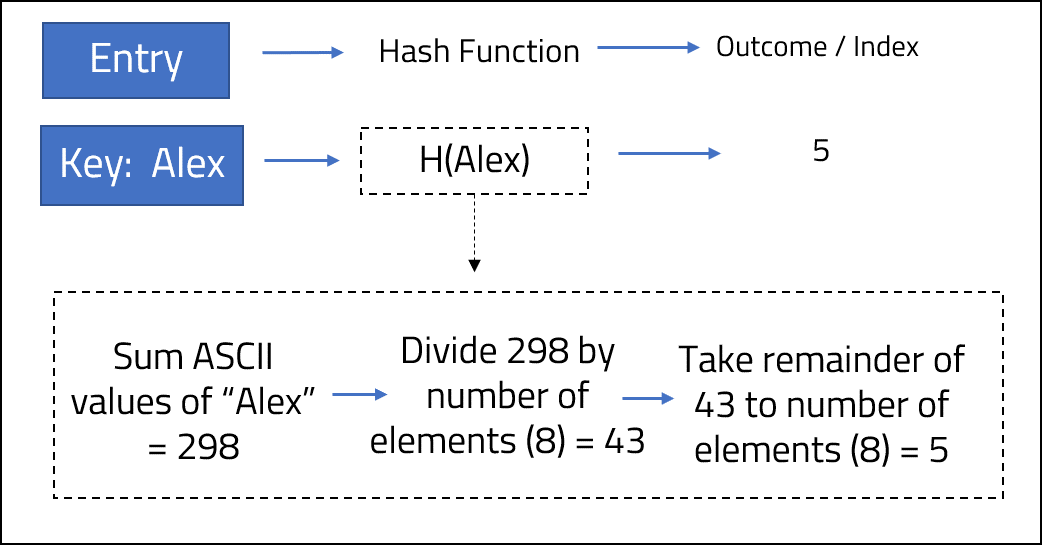
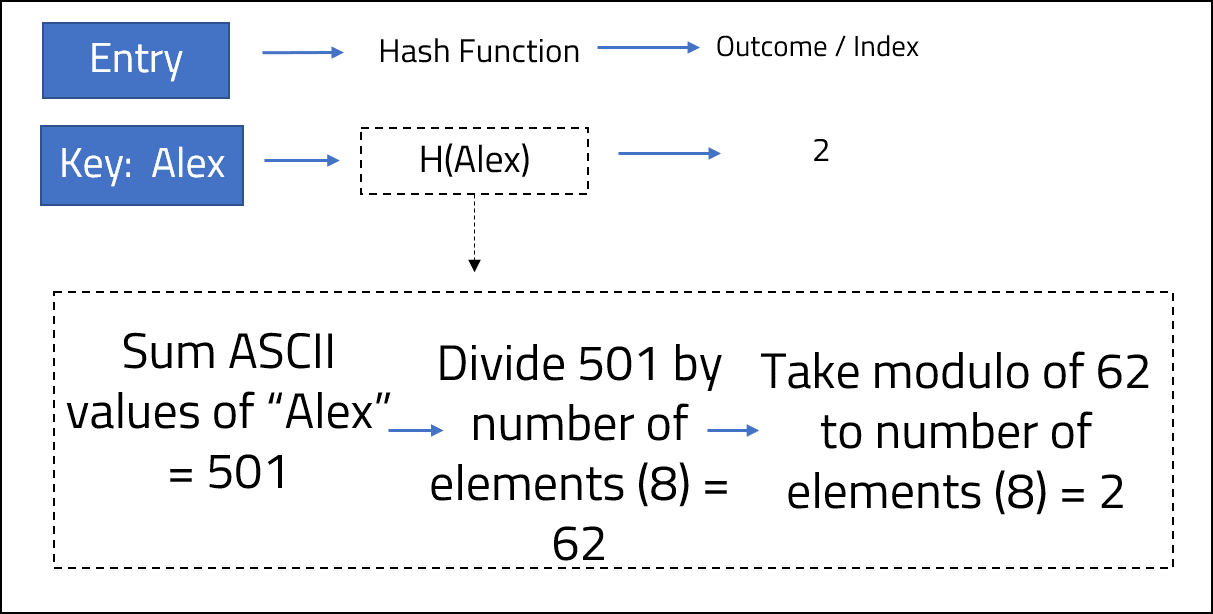
update to post 5

diff --git a/src/blogInProgress/007_ChainingImplementation.md b/src/blogInProgress/007_ChainingImplementation.md
@@ -1,0 +1,113 @@
+---
+title: 'Implementing closed addressing'
+date: 2020-04-27 16:34:00
+author: 'Aneesh Mistry'
+featuredImage: ../images/007_Bariloche.png
+subtitle: 'A practical demonstration how a hash function can be designed to implement chaining / closed addressing'
+time: '8'
+tags:
+- Java
+- Data Structures
+---
+<br>
+<strong>Key Takeaways</strong><br>
+&#8226; The .<br>
+&#8226; The .<br>
+&#8226; The.<br>
+
+<br>
+<h4>Chaining in a HashTable</h4>
+<p>
+Chaining, also known as closed addressing, is a technique used in Java HashTables and HashMaps to efficiently multiple values if their keys map to the same hash value.
+I have written a blog explaining how open and closed addressing works <a target="_blank" href="https://aneesh.co.uk/resolving-hash-collisions">here</a>. In this post, I 
+will walk through the implementation of closed addressing whereby a HashTable will allocate values into a LinkedList within the HashTable for each hash value in the HashTable.
+</p>
+
+<h4>Implementing chaining, step by step</h4>
+<p>
+The HashTable will exist as its own class and will have four key methods:<br>
+&#8226; <strong>put(Key, Value)</strong> to place key-value pairs in the HashTable.
+&#8226; <strong>hashFunction(Key)</strong> to calculate the hash value of the key.
+&#8226; <strong>remove(Key)</strong> to remove key-value pairs from the HashTable.
+&#8226; <strong>get(Key)</strong> to obtain values from the HashTable using the key.
+<br>
+The bucket in each HashTable index will consist of a LinkedList. The LinkedList will be an implementation of the class: EntryLinkedList.<br>
+EntryLinkedList will contain the variables: key, value, nextEntryPosition. nextEntryPosition will be used to resolve hash collisions and use positions further in the list to store values.
+</p>
+<strong>Class: EntryLinkedList</strong>
+<p>
+
+The EntryLinkedList constructor will instantiate the key, value and nextEntryPosition. The nextEntryPosition is only defined during a collision, otherwise it is not needed.
+There are appropriate getters and setters required for obtaining and setting the value and nextEntryPosition, and obtaining the key.<br>
+
+```java{numberLines: true}
+
+public class EntryLinkedList {
+
+    private String key;
+    private int value;
+    private EntryLinkedList nextEntryPosition;
+
+    EntryLinkedList(String key, int value){
+        this.key = key;
+        this.value = value;
+        this.nextEntryPosition = null;
+    }
+
+    public String getKey() {
+        return key;
+    }
+
+    public int getValue() {
+        return value;
+    }
+
+    public void setValue(int value) {
+        this.value = value;
+    }
+
+    public EntryLinkedList getNextEntryPosition() {
+        return nextEntryPosition;
+    }
+
+    public void setNextEntryPosition(EntryLinkedList nextEntryPosition) {
+        this.nextEntryPosition = nextEntryPosition;
+    }
+}
+
+```
+
+</p>
+<br>
+<strong>Class: ChainedHashTable</strong>
+<p>
+The ChainedHashTable will first instantiate an array of the EntryLinkedList which will form the buckets that the values will be stored in:<br>
+
+```java{numberLines: true}
+  private static final int TABLE_SIZE = 64;
+    EntryLinkedList[] entryList;
+    ChainedHashTable(){
+        entryList = new EntryLinkedList[TABLE_SIZE];
+        for(int i = 0; i< TABLE_SIZE; i++){
+            entryList[i] = null;
+        }
+    }
+```
+
+<br>
+The method hashFunction will be used to calculate the hash value of the key:<br>
+
+
+
+</p>
+
+
+<br>
+<h4>Conclusion</h4>
+<p>
+
+
+</p>
+
+<br>
+<small style="float: right;" >Picture: Bariloche, Argentina by <a target="_blank" href="https://unsplash.com/@ggiqueaux">Geronimo Giqueaux</small></a><br>

diff --git a/src/posts/005ResolvingHashConflicts.md b/src/posts/005ResolvingHashConflicts.md
@@ -57,11 +57,11 @@ The example above does not explain how the hash function actually derived the In
 
 <p>
 A collision will occur when the hash function computes two different keys into the same index position of the array.<br>
-If a fourth entry with a key-value pair of: {"George" , 81} was added to the hash table, the index position would equal 7 if we follow the same hash function:<br>
-1. "George" ASCII value = 441<br>
-2. 441 / 8 = 55<br>
-3. 55 % 8 = 7<br>
-The addition of a new key, "George", will create a collision with "Eliza", which is also stored at index 7. Without a collision resolution, {"Eliza" , 97} will be replaced by the key-value pair {"George" , 81}.
+If a fourth entry with a key-value pair of: {"Phillip" , 19} was added to the hash table, the index position would equal 7 if we follow the same hash function:<br>
+1. "Phillip" ASCII value = 722<br>
+2. 722 / 8 = 90<br>
+3. 90 % 8 = 2<br>
+The addition of a new key, "Phillip", will create a collision with "Alex", which is also stored at index 2. Without a collision resolution, {"Alex" , 47} will be replaced by the key-value pair {"Phillip" , 19}.
 </p>
 <p>
 As the hash table is populated with more entries, the potential for collisions increase.<br>
@@ -79,7 +79,7 @@ There are two strategies used for resolving collisions:<br>
 
 <strong>Linear probing</strong>
 <p>
-Linear probing will re-direct the index to point to the next available bucket in the hash table. For the case of "George", which otherwise would fall into bucket 7, the next available bucket would be bucket 0. As a result, the value of George will be stored in bucket 0. If another key is added to the hash table with a hash function of 7, the value will instead be stored in bucket 1. 
+Linear probing will re-direct the index to point to the next available bucket in the hash table. For the case of "Phillip", which otherwise would fall into bucket 2, the next available bucket would be bucket 3. As a result, the value of "Phillip" will be stored in bucket 3. If another key is added to the hash table with a hash function of 2, the value will instead be stored in bucket 4. 
 </p>
 <u>Cluster effects</u>
 <p>
